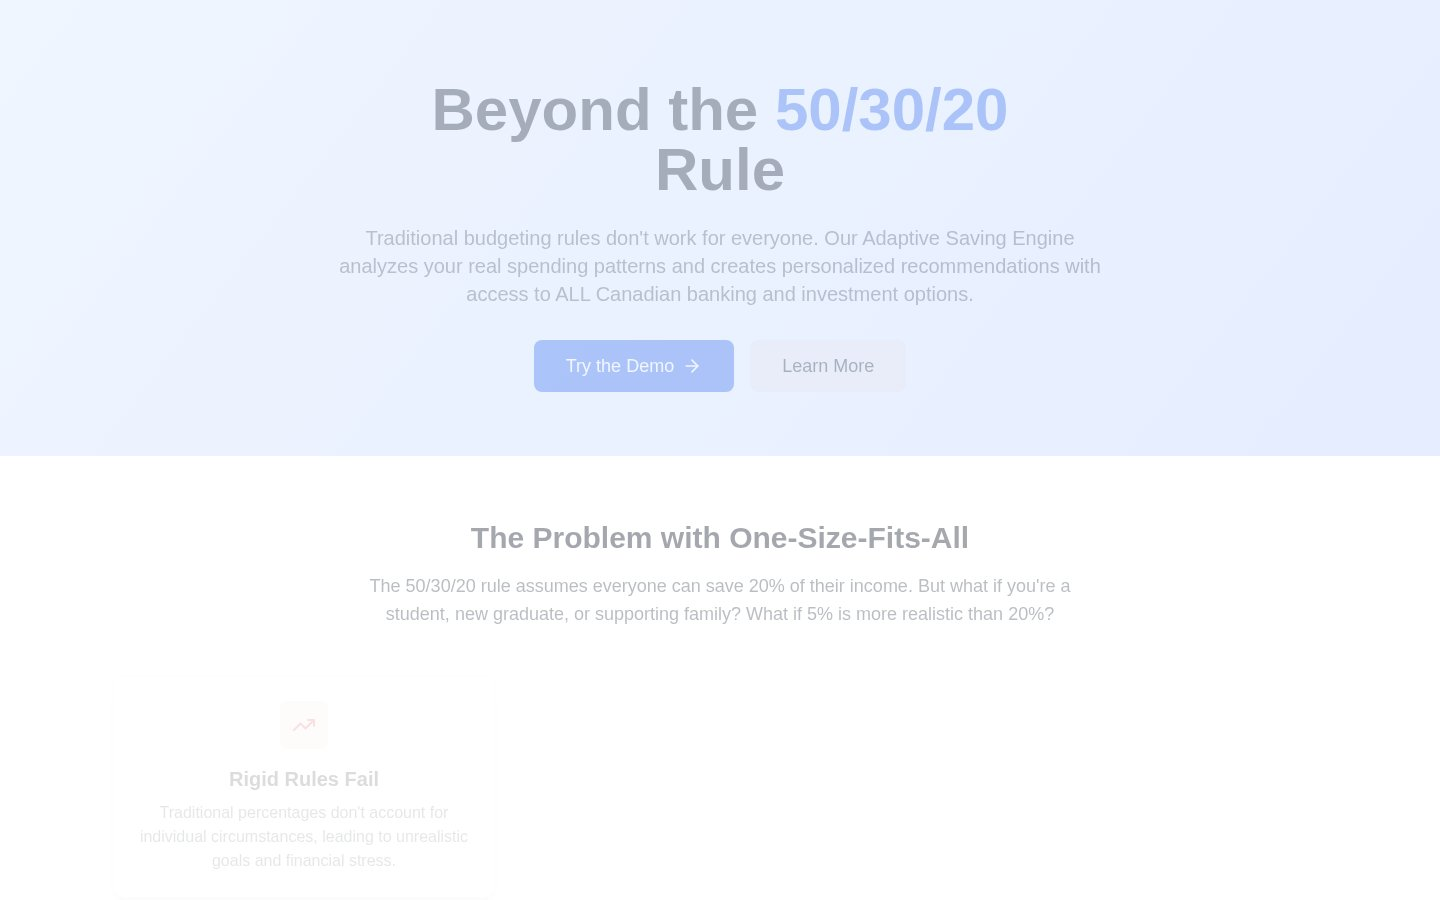
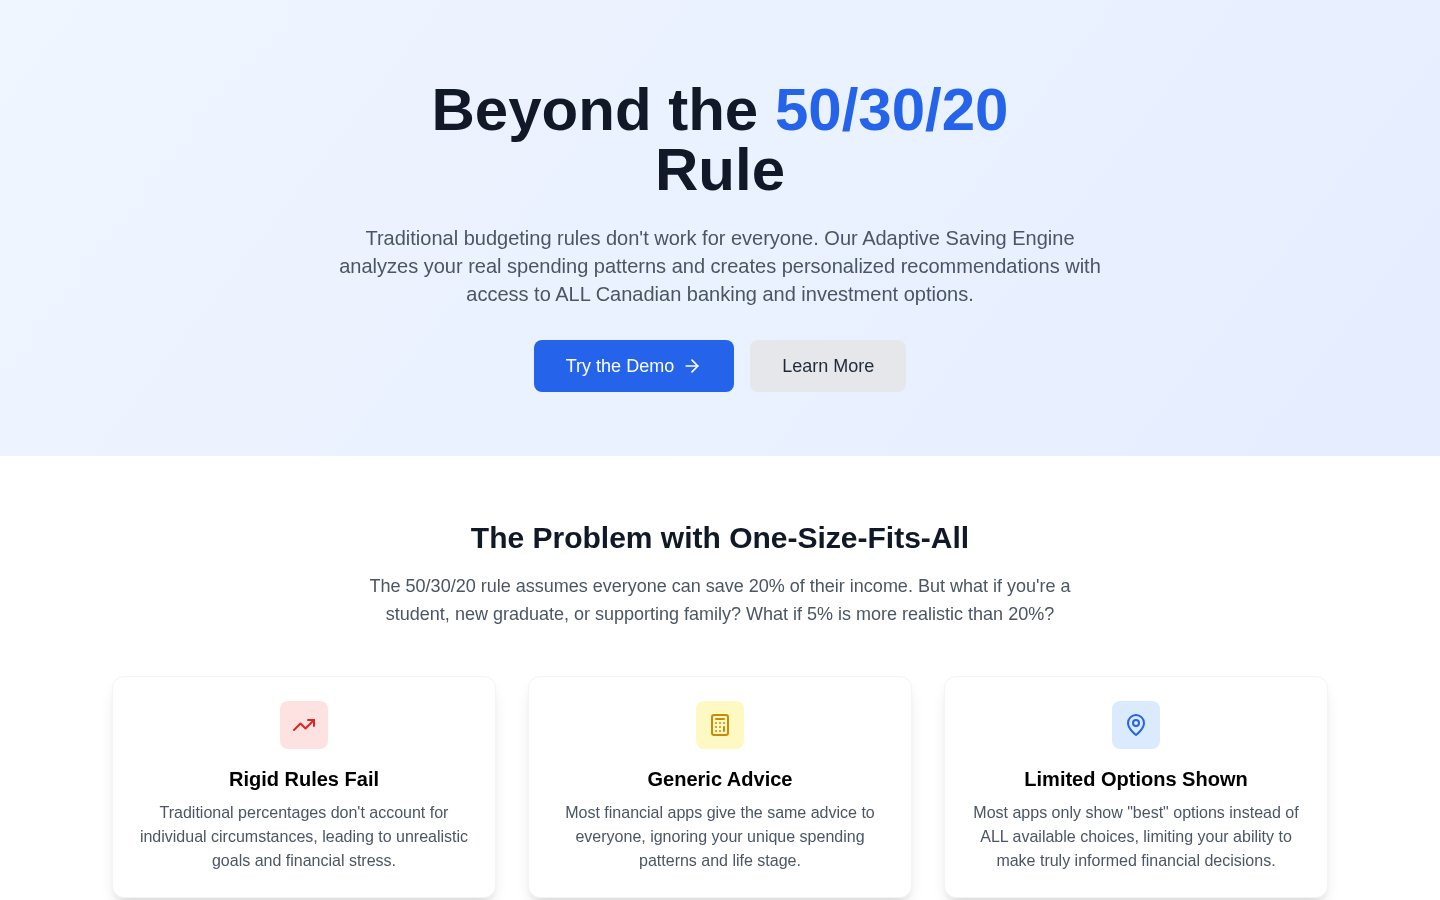
## CareTrace Added to Projects
CareTrace is now a project card with a Repo button pointing at https://github.com/Abel356/CareTrace. I checked it with screenshots at phone, tablet and desktop widths; the testing agent was not run.

- **How it's described**: your repo currently holds only the planning documents, and the document you sent calls it a concept, so I presented it as work in progress rather than a finished build. The tag reads "In discovery", the text says "Inspection-readiness copilot I'm designing for Ontario long-term-care teams", and the tech line starts with "Planned:". Recruiters who click through will see a repo that matches what the card says.
- **Visual**: a dark panel in the same style as Bastion's, showing the four coverage labels from your document (addressed in document, partially addressed, no supporting passage, needs review). It is marked "planned workflow", since there is no real screen to capture yet.
- **No Live demo button**: there is no demo link, so the button stays hidden.
- **Layout change**: with four smaller projects, three across left one card alone on a second row, so they now sit two by two. Bastion and CareTrace are on top, Precogni and SaveBetter below.
- **SaveBetter screenshot**: while in there I noticed the old capture was washed out, caught mid fade-in, so I retook it and it is now crisp.

Once CareTrace has a working prototype, the tag, wording and visual should be updated to match.

Next Action Items:
[…]

diff --git a/frontend/src/components/portfolio/ProjectVisual.jsx b/frontend/src/components/portfolio/ProjectVisual.jsx
@@ -1,21 +1,22 @@
-import { BASTION_RUN, PRECOGNI_SIGNALS } from "@/data/content";
+import { PRECOGNI_SIGNALS } from "@/data/content";
 
 const FRAME = "relative aspect-[16/10] overflow-hidden rounded-[16px] bg-[#2b2119]";
 const ZOOM = "h-full w-full object-cover transition-transform duration-700 ease-out group-hover:scale-110";
 
 const STATUS_COLORS = { ok: "#b9d08a", warn: "#e2c08a", stop: "#f0a98a" };
 
-// Run timeline modelled on Bastion's audit events: tool calls and policy decisions for one chat run.
-const BastionRun = () => (
-  <div className={`${FRAME} flex flex-col p-5 text-[#efe7da]`}>
-    <p className="lab font-mono text-[#e2a07a]">bastion · run timeline</p>
-    <p className="mt-1 text-xs text-[#d9c7ad]">{BASTION_RUN.persona}</p>
-    <ul className="mt-auto space-y-2 text-sm">
-      {BASTION_RUN.events.map((e) => (
-        <li key={e.label} className="flex justify-between gap-3 border-t border-[#efe7da]/15 pt-2">
-          <span className="truncate font-mono text-xs">{e.label}</span>
-          <span className="lab shrink-0" style={{ color: STATUS_COLORS[e.tone] }}>
-            {e.status}
+// Dark terminal-style panel: a title, a sub-line and status rows, all read from the project's `panel` data.
+// Height follows the rows on small screens (long statuses wrap); it matches the image cards from lg up.
+const StatusPanel = ({ panel }) => (
+  <div className="flex flex-col overflow-hidden rounded-[16px] bg-[#2b2119] p-5 text-[#efe7da] lg:aspect-[16/10]">
+    <p className="lab font-mono text-[#e2a07a]">{panel.title}</p>
+    <p className="mt-1 text-xs text-[#d9c7ad]">{panel.sub}</p>
+    <ul className="mt-8 space-y-2 text-sm lg:mt-auto">
+      {panel.rows.map((r) => (
+        <li key={r.label} className="flex justify-between gap-3 border-t border-[#efe7da]/15 pt-2">
+          <span className="shrink-0 font-mono text-xs">{r.label}</span>
+          <span className="lab min-w-0 whitespace-normal text-right" style={{ color: STATUS_COLORS[r.tone] }}>
+            {r.status}
           </span>
         </li>
       ))}
@@ -43,7 +44,7 @@ const Screenshot = ({ src, name }) => (
 );
 
 const VISUALS = {
-  "bastion-run": BastionRun,
+  "status-panel": StatusPanel,
   "precogni-cam": PrecogniCam,
   screenshot: Screenshot,
 };
@@ -55,7 +56,7 @@ export const ProjectVisual = ({ project }) => {
       className="mb-6 rounded-[20px] border-[5px] border-[#e3d6c3] transition-[border-color] duration-500 group-hover:border-[#a8471f]"
       data-testid={`project-${project.name.toLowerCase()}-visual`}
     >
-      <Visual src={project.image} name={project.name} />
+      <Visual src={project.image} name={project.name} panel={project.panel} />
     </div>
   ) : null;
 };

diff --git a/frontend/src/data/content.js b/frontend/src/data/content.js
@@ -78,7 +78,39 @@ export const PROJECTS = [
     stack: "FastAPI · React · TypeScript · Cohere · PostgreSQL · pgvector · Docker",
     repo: "https://github.com/Abel356/Bastion",
     demo: "",
-    visual: "bastion-run",
+    visual: "status-panel",
+    // Mirrors Bastion's demo walkthrough (docs/PRD.md) and tool names (app/governance/tools.py).
+    panel: {
+      title: "bastion · run timeline",
+      sub: "Maya Chen · Engineering",
+      rows: [
+        { label: "search_documents", status: "Allowed", tone: "ok" },
+        { label: "finance chunks", status: "Excluded", tone: "warn" },
+        { label: "injected passage", status: "Quarantined", tone: "warn" },
+        { label: "propose_email", status: "Blocked", tone: "stop" },
+      ],
+    },
+  },
+  {
+    name: "CareTrace",
+    tag: "In discovery",
+    detail:
+      "Inspection-readiness copilot I'm designing for Ontario long-term-care teams. It maps versioned regulations to policy passages and evidence checklists, shows the exact source for every claim, and leaves the compliance call to a human reviewer.",
+    stack: "Planned: Next.js · TypeScript · FastAPI · PostgreSQL · pgvector",
+    repo: "https://github.com/Abel356/CareTrace",
+    demo: "",
+    visual: "status-panel",
+    // The four document-coverage labels defined in CareTrace's PRD (core workflow, step 5).
+    panel: {
+      title: "caretrace · coverage review",
+      sub: "IPAC policy · planned workflow",
+      rows: [
+        { label: "obligation 01", status: "Addressed in document", tone: "ok" },
+        { label: "obligation 02", status: "Partially addressed", tone: "warn" },
+        { label: "obligation 03", status: "No supporting passage", tone: "stop" },
+        { label: "obligation 04", status: "Needs review", tone: "warn" },
+      ],
+    },
   },
   {
     name: "Precogni",
@@ -103,17 +135,6 @@ export const PROJECTS = [
     image: "/media/savebetter.jpg",
   },
 ];
-
-// Mirrors Bastion's demo walkthrough (docs/PRD.md) and tool names (app/governance/tools.py).
-export const BASTION_RUN = {
-  persona: "Maya Chen · Engineering",
-  events: [
-    { label: "search_documents", status: "Allowed", tone: "ok" },
-    { label: "finance chunks", status: "Excluded", tone: "warn" },
-    { label: "injected passage", status: "Quarantined", tone: "warn" },
-    { label: "propose_email", status: "Blocked", tone: "stop" },
-  ],
-};
 
 export const PRECOGNI_SIGNALS = ["eye closure", "yawning", "head tilt"];
 

diff --git a/frontend/src/components/portfolio/Projects.jsx b/frontend/src/components/portfolio/Projects.jsx
@@ -117,7 +117,7 @@ export const Projects = () => {
               </div>
             </article>
           </Reveal>
-          <div className="grid md:grid-cols-3 gap-6">
+          <div className="grid md:grid-cols-2 gap-6">
             {rest.map((p, i) => (
               <Reveal key={p.name} delay={i * 0.08} className="h-full">
                 <article

diff --git a/memory/PRD.md b/memory/PRD.md
@@ -58,7 +58,14 @@ Fonts: Playfair Display (display), Manrope (body), JetBrains Mono (mono).
 ## Revision 7 (2026-11-19)
 - Owner email removed from every public spot (get-in-touch block, call card, footer, content.js). It now lives only in backend OWNER_EMAIL; the form is the only route to it.
 
+## Implemented (2026-11-20, revision 8)
+- CareTrace project card added (repo https://github.com/Abel356/CareTrace). Repo is docs-only (PRD/TODO), so the card is tagged "In discovery", copy says "I'm designing", stack is prefixed "Planned:", and the panel is labelled "planned workflow". Do not describe it as built until code exists.
+- ProjectVisual: Bastion-only panel generalised to a data-driven `status-panel` (project.panel in content.js); status text wraps on narrow screens.
+- Small project cards now a 2x2 grid (was 3 across) to fit four cards.
+- SaveBetter screenshot recaptured (previous capture was caught mid fade-in and looked washed out).
+
 ## Backlog / Next
+- P1: Update CareTrace card (tag, copy, stack, real screenshot) once a prototype exists
 - P1: Replace Bastion/Precogni visuals with real captures when available
 - P1: Resume PDF download button
 - P2: Light SEO (sitemap, JSON-LD Person schema), OG image
